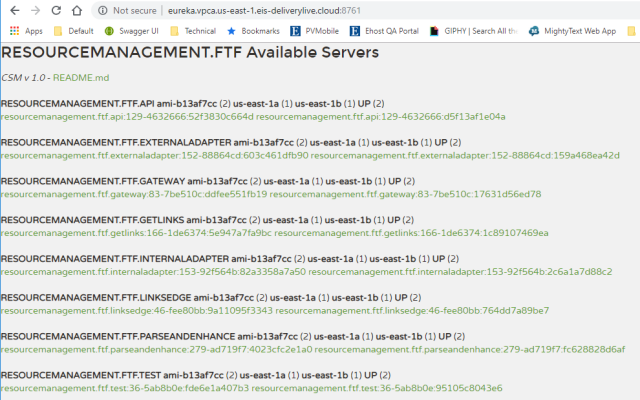
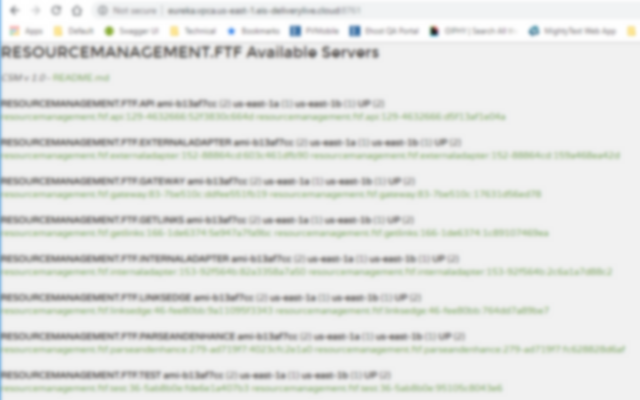
Minor Updates

Changed region(s): [[0.0, 0.0, 1.0, 1.0]]

diff --git a/content.js b/content.js
@@ -8,7 +8,11 @@
 
 
 var url = window.location.pathname;
-
+var readMe = "https://github.com/cmonroeEIS/GetYourSwaggerOn/blob/master/README.md";
+var manifestData = chrome.runtime.getManifest();
+var version = manifestData.version;
+var author = manifestData.author;
+var breakString = "___________________________________________________________________";
 var stringToMatch = null;
 
 chrome.storage.sync.get(['data'], function(result) {
@@ -35,12 +39,10 @@ $.get(url, function (response) {
 
         var newContent = new Array();
         // Let them know this is early
-        var info = "<i>" + "CSM v 1.0" + "</i> - <a href='https://github.com/cmonroeEIS/EurekaSwaggerExt/blob/master/README.md' target='_blank'>README.md</a> ";
-        //var imageName = document.getElementById("images/Swagger-logo.png");
-        //newContent.push(imageName);
+        var info = "<i>Version: v" + version + " <a href='mailto:" + author + "'>" + author + "</a></i> - <a href='" + readMe + "' target='_blank'>README.md</a>";
 
         // Add a title
-        newContent.push("<H1>" + stringToMatch.toUpperCase() + " Available Servers</H1>" + info + "<br><br>");
+        newContent.push("<H1>" + stringToMatch.toUpperCase() + " Available Servers</H1>" + info + "<br>" + breakString + "<br><br>");
 
 
         var i;
